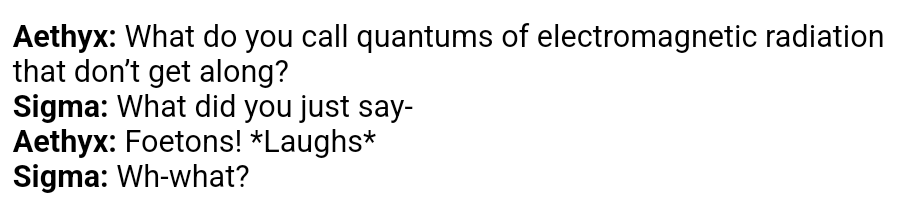
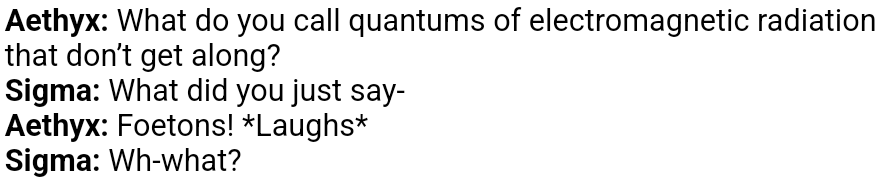
tweaked quotes

Changed region(s): [[0.0, 0.027, 0.9978, 0.7838], [0.0, 0.7838, 0.3024, 0.973]]

diff --git a/quotes.html b/quotes.html
@@ -11,34 +11,34 @@
 </header>
 <article>
   <p>These are from the <a href="https://perchance.org/incorrect-quote-generator" target="_blank">perchance.org incorrect quote generator</a> and were chosen due to their accuracy to the SigAeth dynamic!</p><p><strong>Note</strong>: some of these may be suggestive/NSFW.</p>
-  <img src="./images/quotes/222944.png" class="quote"/>
-  <img src="./images/quotes/115431.png" class="quote"/>
-  <img src="./images/quotes/222352.png" class="quote"/>
-  <img src="./images/quotes/115330.png" class="quote"/>
-  <img src="./images/quotes/115222.png" class="quote"/>
-  <img src="./images/quotes/115313.png" class="quote"/>
-  <img src="./images/quotes/222008.png" class="quote"/>
-  <img src="./images/quotes/223910.png" class="quote"/>
-  <img src="./images/quotes/224050.png" class="quote"/>
-  <img src="./images/quotes/224139.png" class="quote"/>
-  <img src="./images/quotes/230412.png" class="quote"/>
-  <img src="./images/quotes/230452.png" class="quote"/>
-  <img src="./images/quotes/231043.png" class="quote"/>
-  <img src="./images/quotes/231057.png" class="quote"/>
-  <img src="./images/quotes/231116.png" class="quote"/>
-  <img src="./images/quotes/231501.png" class="quote"/>
-  <img src="./images/quotes/231545.png" class="quote"/>
-  <img src="./images/quotes/231933.png" class="quote"/>
-  <img src="./images/quotes/232305.png" class="quote"/>
-  <img src="./images/quotes/232444.png" class="quote"/>
-  <img src="./images/quotes/232653.png" class="quote"/>
-  <img src="./images/quotes/233031.png" class="quote"/>
-  <img src="./images/quotes/223524.png" class="quote"/>
-  <img src="./images/quotes/223857.png" class="quote"/>
-  <img src="./images/quotes/222955.png" class="quote"/>
+  <img src="./images/quotes/222944.png" class="quote"/><br>
+  <img src="./images/quotes/115431.png" class="quote"/><br>
+  <img src="./images/quotes/222352.png" class="quote"/><br>
+  <img src="./images/quotes/115330.png" class="quote"/><br>
+  <img src="./images/quotes/115222.png" class="quote"/><br>
+  <img src="./images/quotes/115313.png" class="quote"/><br>
+  <img src="./images/quotes/222008.png" class="quote"/><br>
+  <img src="./images/quotes/223910.png" class="quote"/><br>
+  <img src="./images/quotes/224050.png" class="quote"/><br>
+  <img src="./images/quotes/224139.png" class="quote"/><br>
+  <img src="./images/quotes/230412.png" class="quote"/><br>
+  <img src="./images/quotes/230452.png" class="quote"/><br>
+  <img src="./images/quotes/231043.png" class="quote"/><br>
+  <img src="./images/quotes/231057.png" class="quote"/><br>
+  <img src="./images/quotes/231116.png" class="quote"/><br>
+  <img src="./images/quotes/231501.png" class="quote"/><br>
+  <img src="./images/quotes/231545.png" class="quote"/><br>
+  <img src="./images/quotes/231933.png" class="quote"/><br>
+  <img src="./images/quotes/232305.png" class="quote"/><br>
+  <img src="./images/quotes/232444.png" class="quote"/><br>
+  <img src="./images/quotes/232653.png" class="quote"/><br>
+  <img src="./images/quotes/233031.png" class="quote"/><br>
+  <img src="./images/quotes/223524.png" class="quote"/><br>
+  <img src="./images/quotes/223857.png" class="quote"/><br>
+  <img src="./images/quotes/222955.png" class="quote"/><br>
   <!-- <img src="./images/quotes/.png" class="quote"/> -->
-  <img src="./images/quotes/221943.png" class="quote"/>
-  <img src="./images/quotes/221923.png" class="quote"/>
+  <img src="./images/quotes/221943.png" class="quote"/><br>
+  <img src="./images/quotes/221923.png" class="quote"/><br>
 </article>
 <footer>
   <a href="" target="_blank" id="twt">Twitter</a>

diff --git a/style.css b/style.css
@@ -93,6 +93,6 @@ h2.title {
 }
 
 .quote {
-  width: 100% !important;
+  width: 95% !important;
   height: auto !important;
 }
